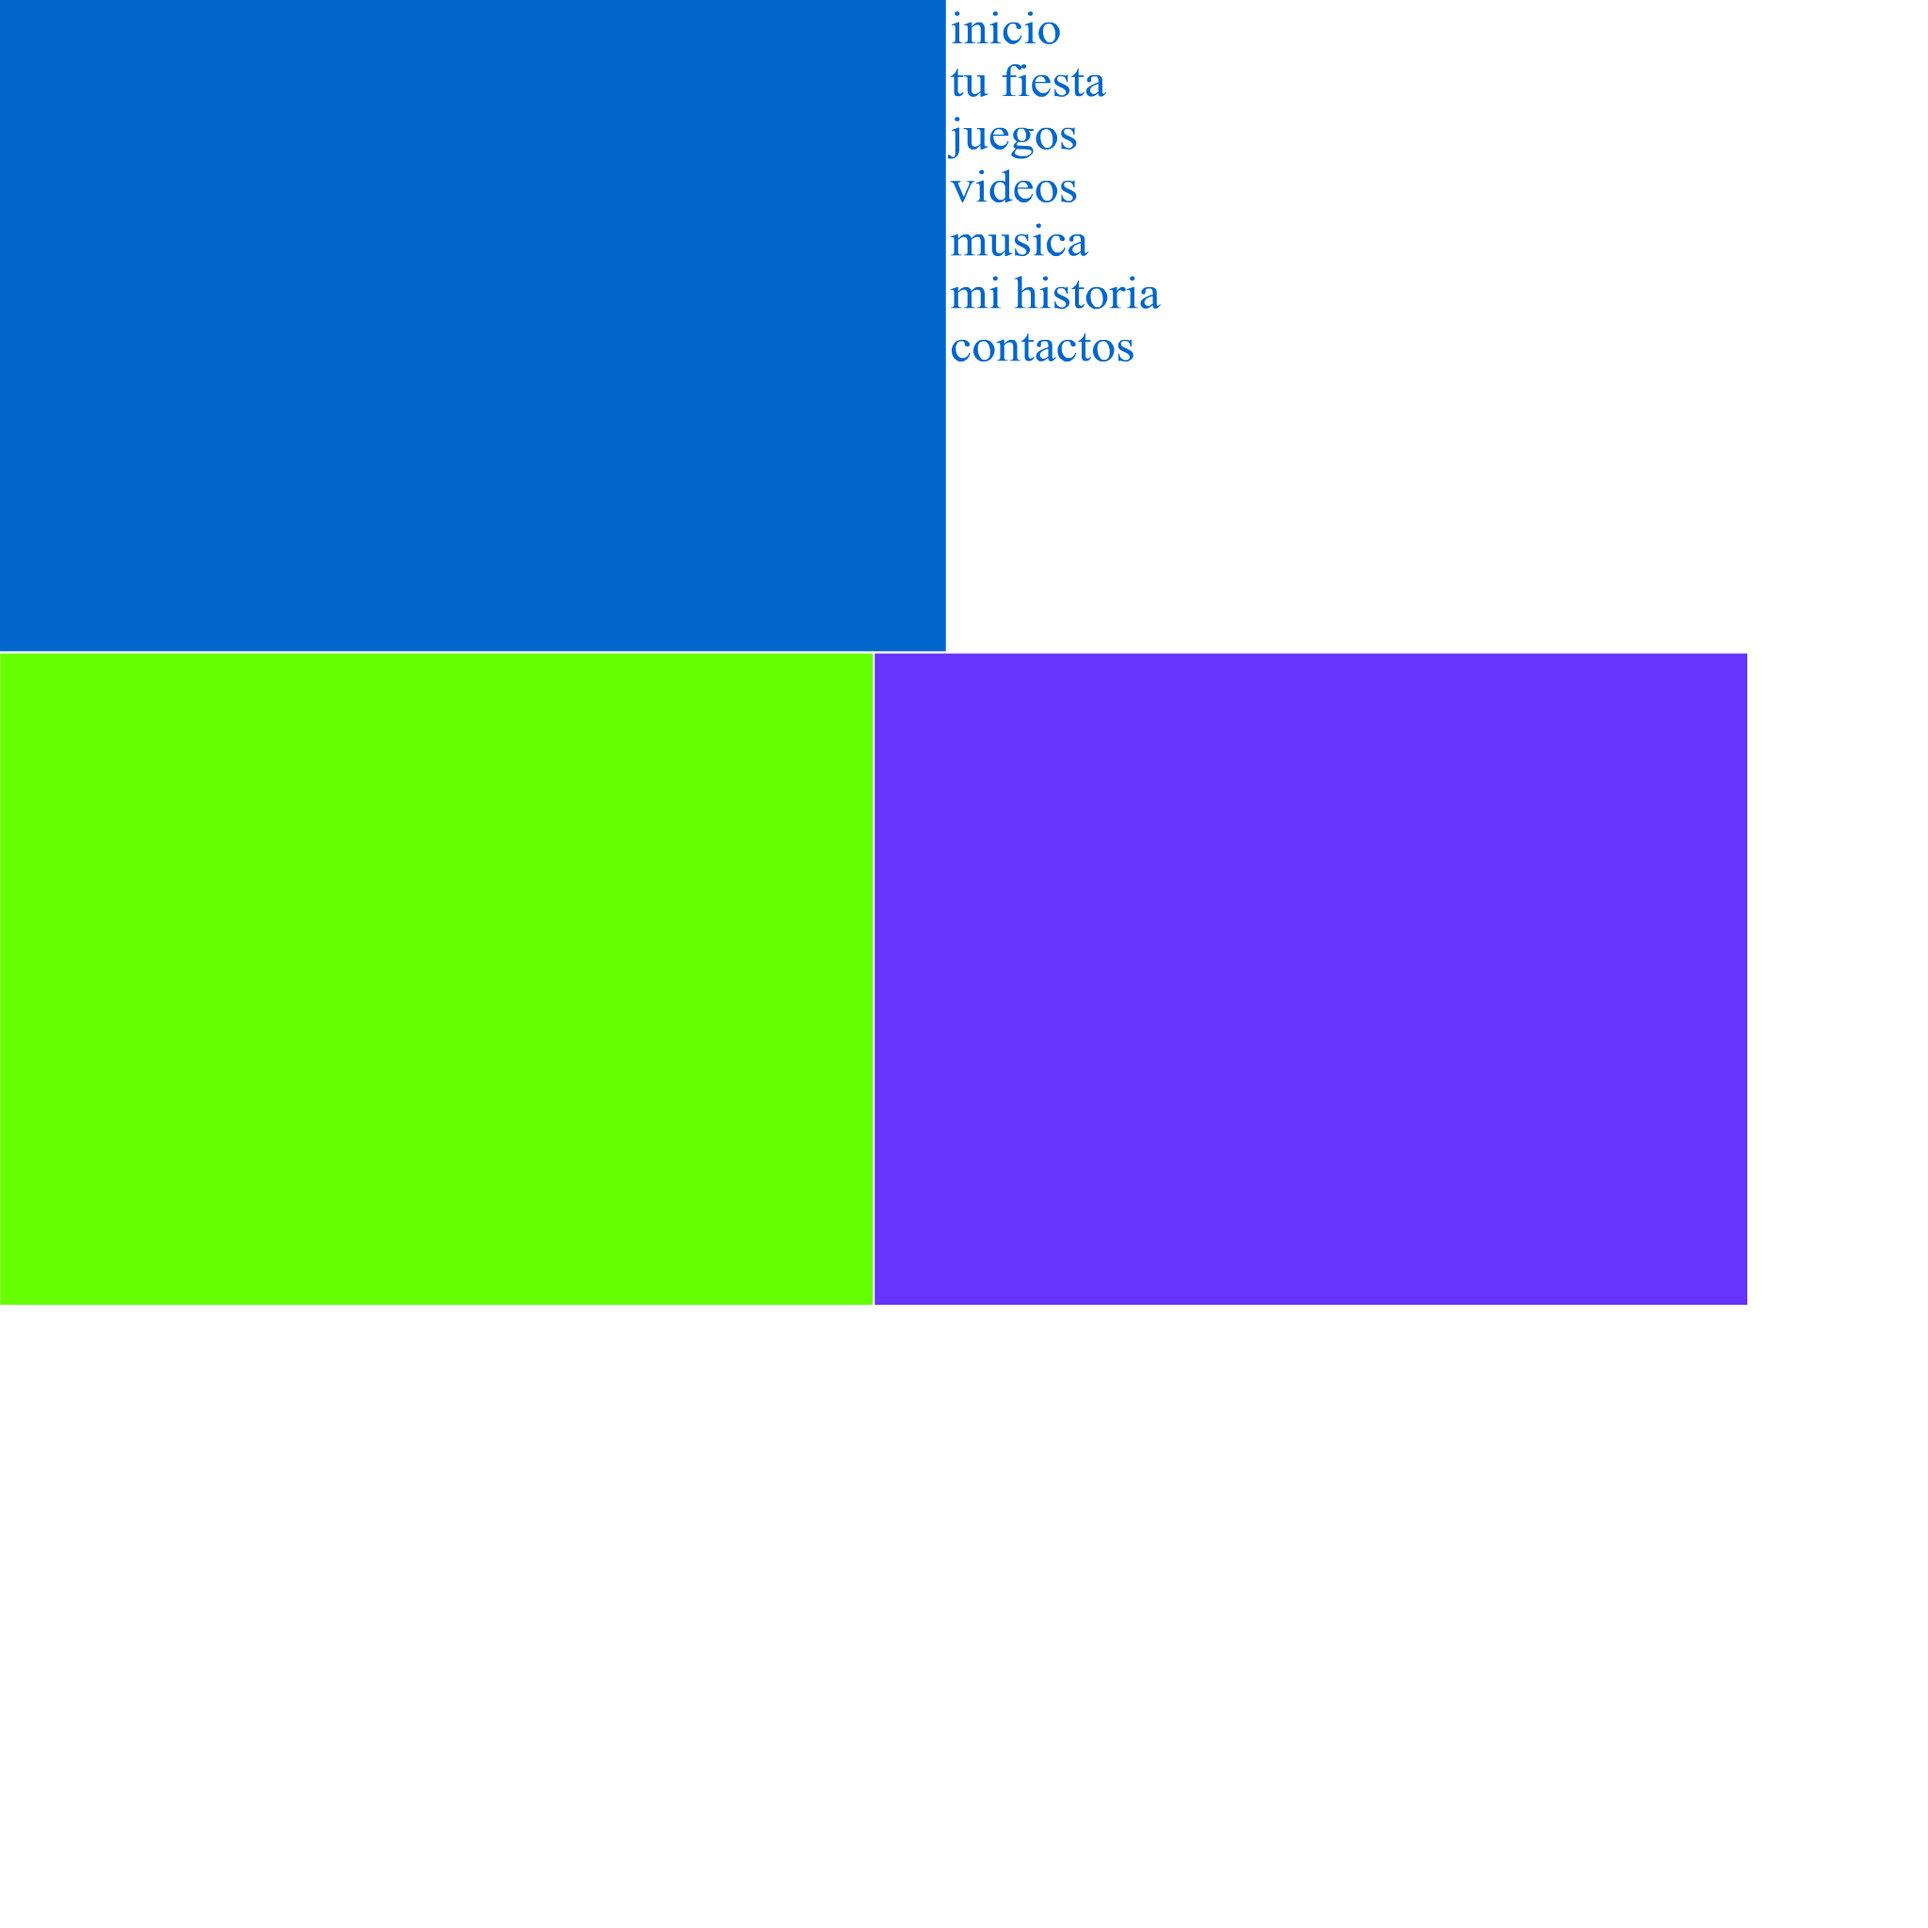
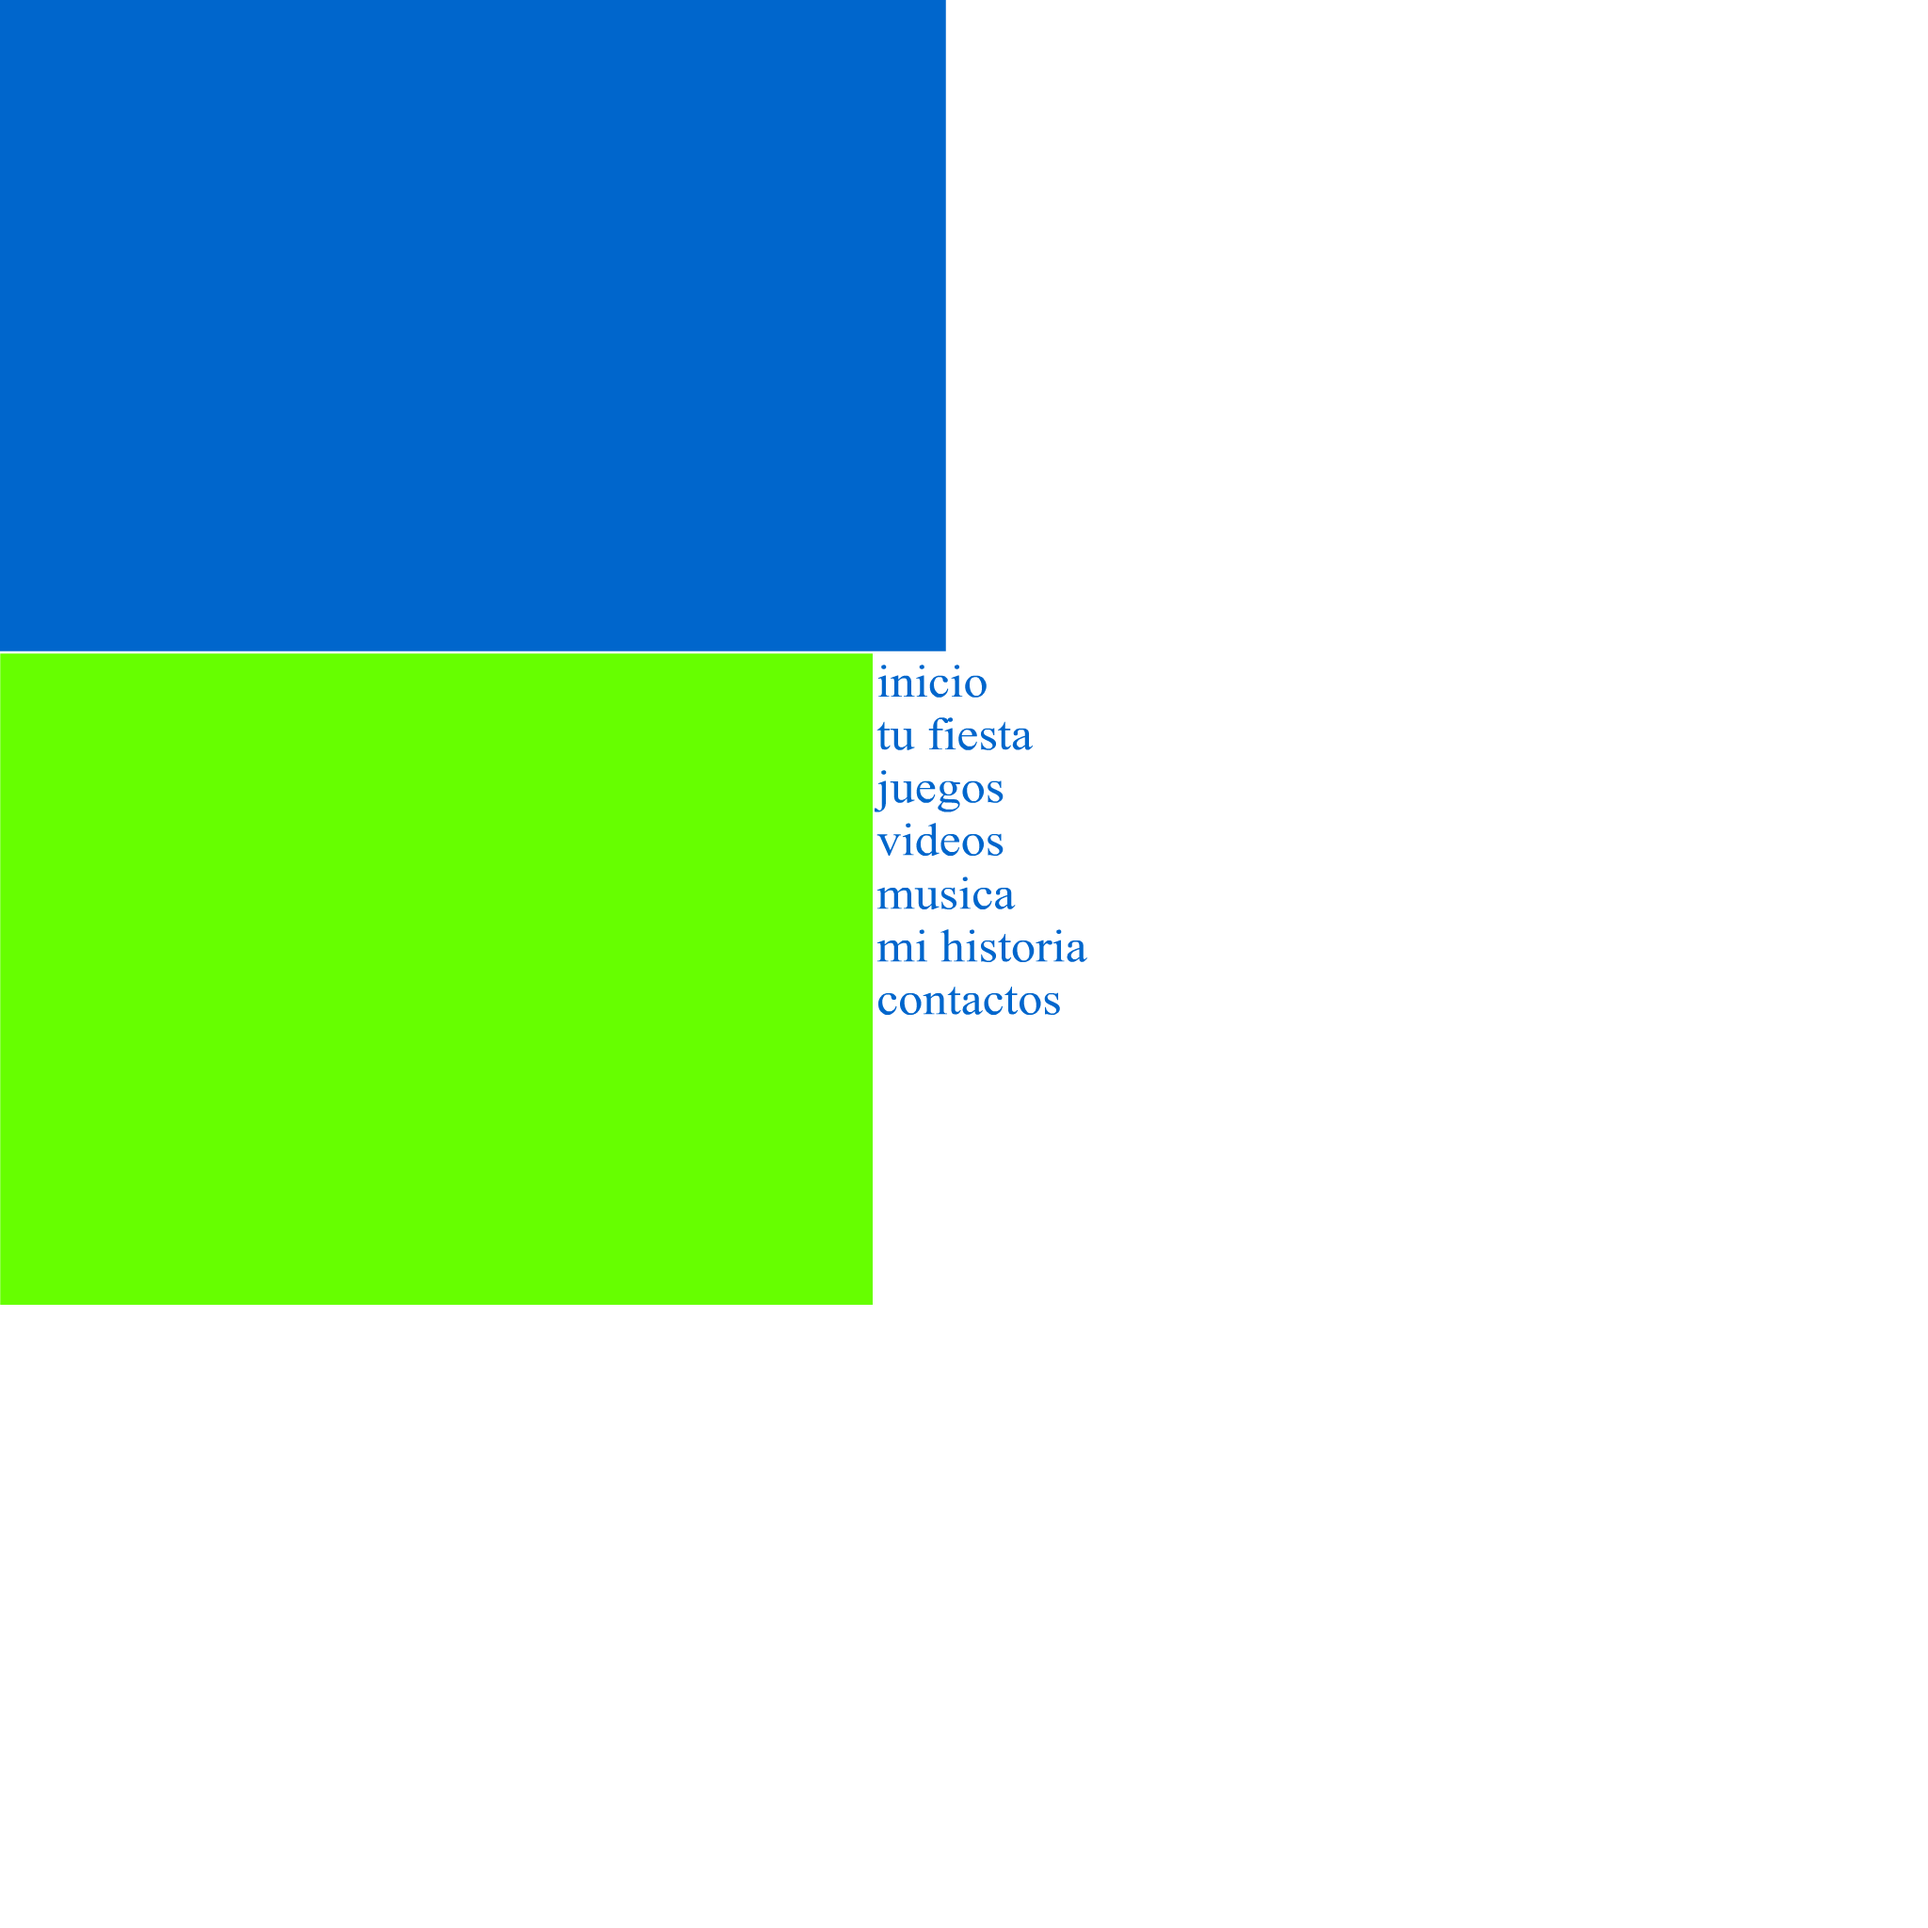
Add files via upload

Changed region(s): [[0.4375, 0.3125, 0.9062, 0.6875], [0.5, 0.0, 0.5938, 0.1875]]

diff --git a/loquinweb/Loquin web.js b/loquinweb/Loquin web.js
@@ -3,7 +3,7 @@
 var p; // shortcut to reference prototypes
 var lib={};var ss={};var img={};
 lib.ssMetadata = [
-		{name:"Loquin web_atlas_1", frames: [[0,0,1005,692],[0,694,927,692],[929,694,927,692],[1007,0,284,396]]}
+		{name:"Loquin web_atlas_1", frames: [[0,0,1005,692],[0,694,927,692],[929,694,284,396]]}
 ];
 
 
@@ -41,18 +41,50 @@ lib.ssMetadata = [
 
 
 
-(lib.Mapadebits3 = function() {
+(lib.Mapadebits4 = function() {
 	this.initialize(ss["Loquin web_atlas_1"]);
 	this.gotoAndStop(2);
 }).prototype = p = new cjs.Sprite();
+// helper functions:
+
+function mc_symbol_clone() {
+	var clone = this._cloneProps(new this.constructor(this.mode, this.startPosition, this.loop, this.reversed));
+	clone.gotoAndStop(this.currentFrame);
+	clone.paused = this.paused;
+	clone.framerate = this.framerate;
+	return clone;
+}
+
+function getMCSymbolPrototype(symbol, nominalBounds, frameBounds) {
+	var prototype = cjs.extend(symbol, cjs.MovieClip);
+	prototype.clone = mc_symbol_clone;
+	prototype.nominalBounds = nominalBounds;
+	prototype.frameBounds = frameBounds;
+	return prototype;
+	}
 
 
+(lib.Símbolo1 = function(mode,startPosition,loop,reversed) {
+if (loop == null) { loop = true; }
+if (reversed == null) { reversed = false; }
+	var props = new Object();
+	props.mode = mode;
+	props.startPosition = startPosition;
+	props.labels = {};
+	props.loop = loop;
+	props.reversed = reversed;
+	cjs.MovieClip.apply(this,[props]);
 
-(lib.Mapadebits4 = function() {
-	this.initialize(ss["Loquin web_atlas_1"]);
-	this.gotoAndStop(3);
-}).prototype = p = new cjs.Sprite();
+	// Capa_1
+	this.shape = new cjs.Shape();
+	this.shape.graphics.f("#6666FF").s().p("EhGsADDIAAmFMCNZAAAIAAGFg");
+	this.shape.setTransform(452.475,19.525);
 
+	this.timeline.addTween(cjs.Tween.get(this.shape).wait(1));
+
+	this._renderFirstFrame();
+
+}).prototype = getMCSymbolPrototype(lib.Símbolo1, new cjs.Rectangle(0,0,905,39.1), null);
 
 
 // stage content:
@@ -68,34 +100,34 @@ if (reversed == null) { reversed = false; }
 	cjs.MovieClip.apply(this,[props]);
 
 	// Capa_1
-	this.instance = new lib.Mapadebits4();
-	this.instance.setTransform(612,1999);
+	this.instance = new lib.Símbolo1();
+	this.instance.setTransform(474.4,1672.5,1,1,0,0,0,452.4,19.5);
 
-	this.instance_1 = new lib.Mapadebits3();
-	this.instance_1.setTransform(10,943,1.009,1);
+	this.instance_1 = new lib.Mapadebits4();
+	this.instance_1.setTransform(532,1181);
 
 	this.instance_2 = new lib.Mapadebits2();
-	this.instance_2.setTransform(26,1926,0.9761,0.7876);
+	this.instance_2.setTransform(22,1108,0.9761,0.7876);
 
 	this.instance_3 = new lib.Mapadebits1();
-	this.instance_3.setTransform(11,24,0.9242,1);
+	this.instance_3.setTransform(15,20,0.9242,1);
 
 	this.timeline.addTween(cjs.Tween.get({}).to({state:[{t:this.instance_3},{t:this.instance_2},{t:this.instance_1},{t:this.instance}]}).wait(1));
 
 	this._renderFirstFrame();
 
 }).prototype = p = new lib.AnMovieClip();
-p.nominalBounds = new cjs.Rectangle(485,1274,460.4,1197);
+p.nominalBounds = new cjs.Rectangle(490,870,453.79999999999995,822.0999999999999);
 // library properties:
 lib.properties = {
 	id: '57BC794344EC5F4BBB2C365C4674F266',
 	width: 950,
-	height: 2500,
+	height: 1700,
 	fps: 30,
 	color: "#FFFFFF",
 	opacity: 1.00,
 	manifest: [
-		{src:"images/Loquin web_atlas_1.png?1690298652464", id:"Loquin web_atlas_1"}
+		{src:"images/Loquin web_atlas_1.png?1690298904121", id:"Loquin web_atlas_1"}
 	],
 	preloads: []
 };

diff --git a/loquinweb/index.html b/loquinweb/index.html
@@ -21,7 +21,7 @@
   }
 </style>
 <script src="https://code.createjs.com/1.0.0/createjs.min.js"></script>
-<script src="Loquin web.js?1690298652493"></script>
+<script src="Loquin web.js?1690298904149"></script>
 <script>
 var canvas, stage, exportRoot, anim_container, dom_overlay_container, fnStartAnimation;
 function init() {
@@ -66,9 +66,9 @@ function handleComplete(evt,comp) {
 <!-- write your code here -->
 </head>
 <body onload="init();" style="margin:0px;">
-	<div id="animation_container" style="background-color:rgba(255, 255, 255, 1.00); width:950px; height:2500px">
-		<canvas id="canvas" width="950" height="2500" style="position: absolute; display: block; background-color:rgba(255, 255, 255, 1.00);"></canvas>
-		<div id="dom_overlay_container" style="pointer-events:none; overflow:hidden; width:950px; height:2500px; position: absolute; left: 0px; top: 0px; display: block;">
+	<div id="animation_container" style="background-color:rgba(255, 255, 255, 1.00); width:950px; height:1700px">
+		<canvas id="canvas" width="950" height="1700" style="position: absolute; display: block; background-color:rgba(255, 255, 255, 1.00);"></canvas>
+		<div id="dom_overlay_container" style="pointer-events:none; overflow:hidden; width:950px; height:1700px; position: absolute; left: 0px; top: 0px; display: block;">
 		</div>
 	</div>
 </body>
